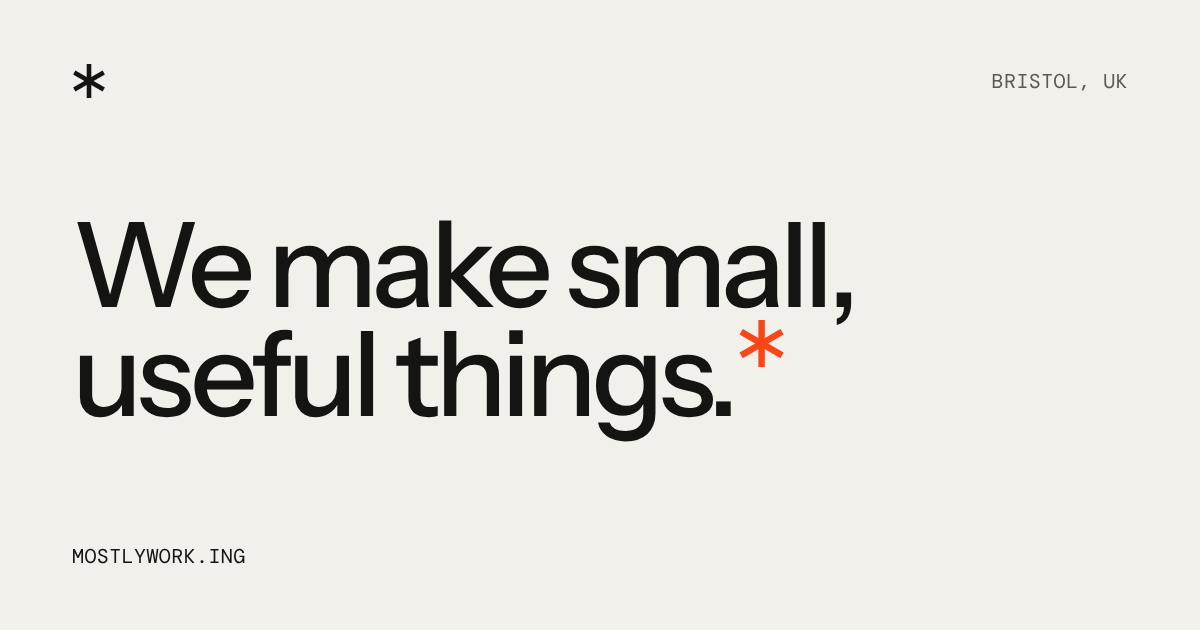
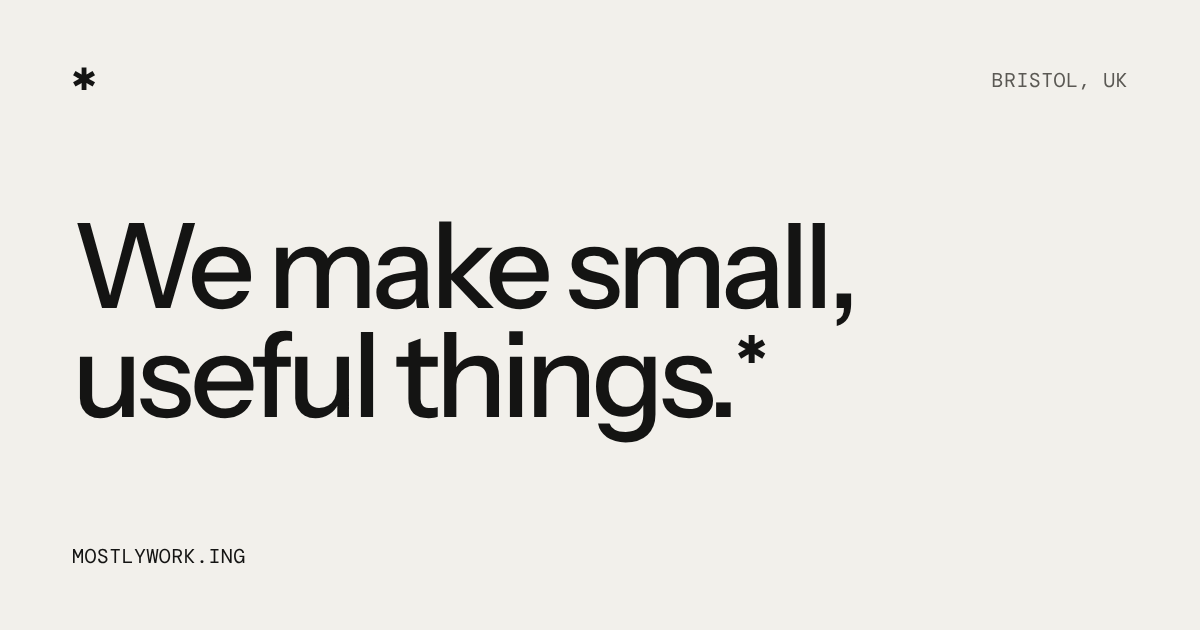
Drop the orange accent and use the real ✱ character
Go back to the ✱ the site has always used: the U+2731 character in the
original monospace font stack, rather than the thinner SVG drawn from
the favicon's bars. The favicon itself is unchanged.

- Remove the orange accent everywhere; project rows now invert to ink
  on hover and keyboard focus, with a paper focus ring
- Header mark back to its previous 20px; drop its hover rotation
- Headline ✱ spins a full turn, which always lands it back in place
  whatever the glyph's position in its em box
- Re-render og.png and apple-touch-icon.png with the ✱ character

Claude-Session: https://claude.ai/code/session_017UFRXYQtUMif1BB6ZR5QC6

diff --git a/styles.css b/styles.css
@@ -23,7 +23,6 @@
   --paper: #f2f0eb;
   --ink: #141413;
   --ink-soft: #5b5954;
-  --accent: #f84616;
 
   --sans: "Instrument Sans", ui-sans-serif, system-ui, -apple-system, "Segoe UI", Roboto, "Helvetica Neue", Arial, sans-serif;
   --mono: "DM Mono", ui-monospace, "SF Mono", Menlo, Consolas, "Liberation Mono", monospace;
@@ -78,8 +77,8 @@ a {
 }
 
 ::selection {
-  background: var(--accent);
-  color: var(--ink);
+  background: var(--ink);
+  color: var(--paper);
 }
 
 :focus-visible {
@@ -99,13 +98,16 @@ a {
   border: 0;
 }
 
-/* The ✱ mark, drawn from the same geometry as the favicon */
+/* The ✱ mark: the real character, in the same font stack the site has always used */
 
 .mark {
-  display: block;
-  width: 1em;
-  height: 1em;
-  fill: currentColor;
+  display: inline-block;
+  font-family: ui-monospace, "SF Mono", "Menlo", "Consolas", "Liberation Mono", monospace;
+  font-style: normal;
+  font-weight: 400;
+  line-height: 1;
+  letter-spacing: 0;
+  text-transform: none;
 }
 
 /* Small mono labels */
@@ -133,16 +135,9 @@ a {
   display: block;
   margin: -6px;
   padding: 6px;
-  font-size: 22px;
-  border-radius: 50%;
-}
-
-.home .mark {
-  transition: transform 0.8s var(--ease-spring);
-}
-
-.home:hover .mark {
-  transform: rotate(60deg);
+  font-size: 20px;
+  line-height: 1;
+  text-decoration: none;
 }
 
 .whereabouts {
@@ -172,17 +167,14 @@ a {
 
 .footnote {
   display: inline-block;
-  width: 0.4em;
-  height: 0.4em;
-  margin-left: 0.04em;
+  margin-left: 0.06em;
+  font-size: 0.42em;
+  line-height: 1;
   vertical-align: top;
-  color: var(--accent);
   animation: spin-in 1.1s 0.25s var(--ease-spring) backwards;
 }
 
 .footnote .mark {
-  width: 100%;
-  height: 100%;
   transform: rotate(var(--turn, 0deg));
   transition: transform 0.9s var(--ease-spring);
 }
@@ -204,7 +196,6 @@ a {
 }
 
 .lede a:hover {
-  text-decoration-color: var(--accent);
   text-decoration-thickness: 2px;
 }
 
@@ -225,14 +216,12 @@ a {
 .projects h2 {
   display: flex;
   align-items: center;
-  gap: 0.6em;
+  gap: 0.5em;
   padding-bottom: 14px;
 }
 
 .projects h2 .mark {
-  width: 0.95em;
-  height: 0.95em;
-  color: var(--accent);
+  font-size: 1.25em;
 }
 
 .index {
@@ -249,34 +238,24 @@ a {
 }
 
 .project {
-  position: relative;
-  isolation: isolate;
   display: grid;
   grid-template-columns: repeat(12, minmax(0, 1fr));
   align-items: baseline;
   column-gap: 24px;
   padding: clamp(18px, 2.4vw, 30px) var(--bleed);
   text-decoration: none;
+  transition: background-color 0.25s var(--ease-out), color 0.25s var(--ease-out);
 }
 
-.project::before {
-  content: "";
-  position: absolute;
-  inset: 0;
-  z-index: -1;
-  background: var(--accent);
-  transform: scaleY(0);
-  transform-origin: 50% 100%;
-  transition: transform 0.5s var(--ease-out);
-}
-
-.project:hover::before,
-.project:focus-visible::before {
-  transform: scaleY(1);
+.project:hover,
+.project:focus-visible {
+  background: var(--ink);
+  color: var(--paper);
 }
 
 .project:focus-visible {
-  outline-offset: -2px;
+  outline: 2px solid var(--paper);
+  outline-offset: -6px;
 }
 
 .project-num,
@@ -289,6 +268,7 @@ a {
 .project-num {
   grid-column: span 1;
   color: var(--ink-soft);
+  transition: color 0.25s var(--ease-out);
 }
 
 .project-name {
@@ -302,6 +282,7 @@ a {
 .project-desc {
   grid-column: span 4;
   color: var(--ink-soft);
+  transition: color 0.25s var(--ease-out);
   text-wrap: pretty;
 }
 
@@ -326,7 +307,7 @@ a {
 
 .project:hover :is(.project-num, .project-desc),
 .project:focus-visible :is(.project-num, .project-desc) {
-  color: var(--ink);
+  color: var(--paper);
 }
 
 /* Colophon */

diff --git a/index.html b/index.html
@@ -28,27 +28,19 @@
 <link rel="stylesheet" href="/styles.css">
 </head>
 <body>
-<svg width="0" height="0" style="position: absolute" aria-hidden="true" focusable="false">
-  <symbol id="mark" viewBox="-8 -8 16 16">
-    <rect x="-1.088" y="-8" width="2.176" height="16"/>
-    <rect x="-1.088" y="-8" width="2.176" height="16" transform="rotate(60)"/>
-    <rect x="-1.088" y="-8" width="2.176" height="16" transform="rotate(120)"/>
-  </symbol>
-</svg>
-
 <header class="masthead">
-  <a class="home" href="/" aria-label="mostlywork.ing"><svg class="mark" aria-hidden="true"><use href="#mark"/></svg></a>
+  <a class="home" href="/" aria-label="mostlywork.ing"><span class="mark" aria-hidden="true">✱</span></a>
   <p class="whereabouts label"><span>Bristol, UK</span> <time data-clock></time></p>
 </header>
 
 <main>
   <section class="intro">
-    <h1>We make small, useful&nbsp;things.<span class="footnote" aria-hidden="true"><svg class="mark"><use href="#mark"/></svg></span></h1>
+    <h1>We make small, useful&nbsp;things.<span class="footnote" aria-hidden="true"><span class="mark">✱</span></span></h1>
     <p class="lede">We’re a tiny product design company in Bristol,&nbsp;UK.</p>
   </section>
 
   <section class="projects" id="projects" aria-labelledby="projects-title">
-    <h2 class="label" id="projects-title"><svg class="mark" aria-hidden="true"><use href="#mark"/></svg>Projects</h2>
+    <h2 class="label" id="projects-title"><span class="mark" aria-hidden="true">✱</span>Projects</h2>
     <ol class="index">
       <li style="--i: 0">
         <a class="project" href="https://usemacro.app" target="_blank" rel="noopener noreferrer">

diff --git a/404.html b/404.html
@@ -16,22 +16,14 @@
 <link rel="stylesheet" href="/styles.css">
 </head>
 <body>
-<svg width="0" height="0" style="position: absolute" aria-hidden="true" focusable="false">
-  <symbol id="mark" viewBox="-8 -8 16 16">
-    <rect x="-1.088" y="-8" width="2.176" height="16"/>
-    <rect x="-1.088" y="-8" width="2.176" height="16" transform="rotate(60)"/>
-    <rect x="-1.088" y="-8" width="2.176" height="16" transform="rotate(120)"/>
-  </symbol>
-</svg>
-
 <header class="masthead">
-  <a class="home" href="/" aria-label="mostlywork.ing"><svg class="mark" aria-hidden="true"><use href="#mark"/></svg></a>
+  <a class="home" href="/" aria-label="mostlywork.ing"><span class="mark" aria-hidden="true">✱</span></a>
   <p class="whereabouts label"><span>Bristol, UK</span> <time data-clock></time></p>
 </header>
 
 <main>
   <section class="intro">
-    <h1>This page isn’t working.<span class="footnote" aria-hidden="true"><svg class="mark"><use href="#mark"/></svg></span></h1>
+    <h1>This page isn’t working.<span class="footnote" aria-hidden="true"><span class="mark">✱</span></span></h1>
     <p class="lede">It doesn’t exist. Everything else is mostly working, so <a href="/">head back&nbsp;home</a>.</p>
   </section>
 </main>

diff --git a/site.js b/site.js
@@ -21,13 +21,13 @@ if (clocks.length) {
   setInterval(tick, 10000);
 }
 
-// The ✱ has six-fold symmetry, so turning it by 60° lands it exactly where it
-// started: it moves, and nothing changes. Mostly working.
+// Give the ✱ a full turn on hover or tap. A whole turn always lands it exactly
+// where it started, however the glyph sits in its font's em box.
 for (const footnote of document.querySelectorAll(".footnote")) {
   let turns = 0;
   const spin = () => {
     turns += 1;
-    footnote.style.setProperty("--turn", `${turns * 60}deg`);
+    footnote.style.setProperty("--turn", `${turns * 360}deg`);
   };
   footnote.addEventListener("pointerenter", spin);
   footnote.addEventListener("click", spin);

diff --git a/README.md b/README.md
@@ -7,7 +7,7 @@ A static site with no build step, served by Vercel from the repository root.
 - `styles.css`, `site.js`: shared by both pages (`site.js` runs the Bristol clock and spins the ✱)
 - `fonts/`: self-hosted [Instrument Sans](https://github.com/Instrument/instrument-sans) and [DM Mono](https://github.com/googlefonts/dm-mono), both under the SIL Open Font License
 - `og.png`: the link preview image (1200×630), a render of the homepage's headline
-- `apple-touch-icon.png`, `favicon.*`: icons, all drawn from the same ✱ geometry
+- `apple-touch-icon.png`, `favicon.*`: icons
 
 To preview locally, run a static server from the repository root, for example:
 
